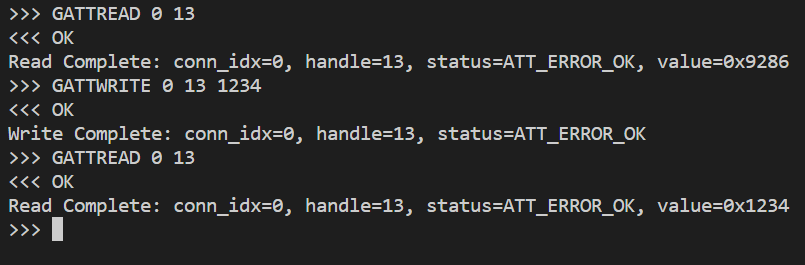
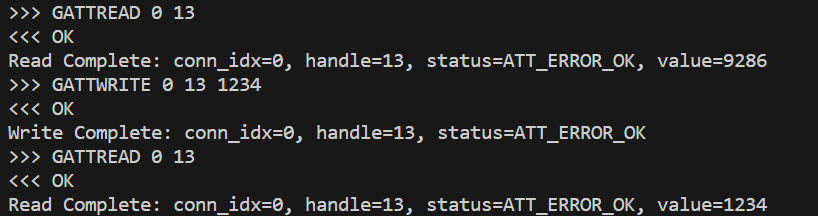
readme update

Changed region(s): [[0.0, 0.4722, 0.9938, 1.0], [0.0, 0.1111, 0.9938, 0.4444], [0.0, 0.0, 0.2484, 0.1111]]

diff --git a/examples/central_crash_info/central_crash_info.py b/examples/central_crash_info/central_crash_info.py
@@ -337,10 +337,10 @@ class BleController():
                             self.dci_svc.tx_user_desc = item
 
     def handle_evt_gattc_notification(self, evt: ble.BleEventGattcNotification):
-        self.log(f"Received Notification: conn_idx={evt.conn_idx}, handle={evt.handle}, value=0x{evt.value.hex()}")
+        self.log(f"Received Notification: conn_idx={evt.conn_idx}, handle={evt.handle}, value={evt.value.hex()}")
 
     def handle_evt_gattc_read_completed(self, evt: ble.BleEventGattcReadCompleted):
-        self.log(f"Read Complete: conn_idx={evt.conn_idx}, handle={evt.handle}, status={evt.status.name}, value=0x{evt.value.hex()}")
+        self.log(f"Read Complete: conn_idx={evt.conn_idx}, handle={evt.handle}, status={evt.status.name}, value={evt.value.hex()}")
 
     def handle_evt_gattc_write_completed(self, evt: ble.BleEventGattcWriteCompleted):
         self.log(f"Write Complete: conn_idx={evt.conn_idx}, handle={evt.handle}, status={evt.status.name}")

diff --git a/examples/central_cli/central_cli.py b/examples/central_cli/central_cli.py
@@ -397,10 +397,10 @@ class BleController():
         self.services.push(service)
 
     def handle_evt_gattc_notification(self, evt: ble.BleEventGattcNotification):
-        print(f"Received Notification: conn_idx={evt.conn_idx}, handle={evt.handle}, value=0x{evt.value.hex()}")
+        print(f"Received Notification: conn_idx={evt.conn_idx}, handle={evt.handle}, value={evt.value.hex()}")
 
     def handle_evt_gattc_read_completed(self, evt: ble.BleEventGattcReadCompleted):
-        print(f"Read Complete: conn_idx={evt.conn_idx}, handle={evt.handle}, status={evt.status.name}, value=0x{evt.value.hex()}")
+        print(f"Read Complete: conn_idx={evt.conn_idx}, handle={evt.handle}, status={evt.status.name}, value={evt.value.hex()}")
 
     def handle_evt_gattc_write_completed(self, evt: ble.BleEventGattcWriteCompleted):
         print(f"Write Complete: conn_idx={evt.conn_idx}, handle={evt.handle}, status={evt.status.name}")

diff --git a/examples/central_cli/README.md b/examples/central_cli/README.md
@@ -108,13 +108,15 @@ When the procedure is complete, a message indicationg so will be printed to the 
 
 ![gattread](assets/gattread.png)
 
+Note the data returned is little endian.
+
 ### GATTWRITE
 
 `GATTWRITE <connection_index> <handle> <data>`
 
 For example, to write 0x1234 to handle 13 of the peripheral at connection index 0:
 
-`GATTWRITE 0 13 3412`
+`GATTWRITE 0 13 1234`
 
 Note the data should be written little endian. When the procedure is complete, a message indicationg so will be printed to the terminal:
 
